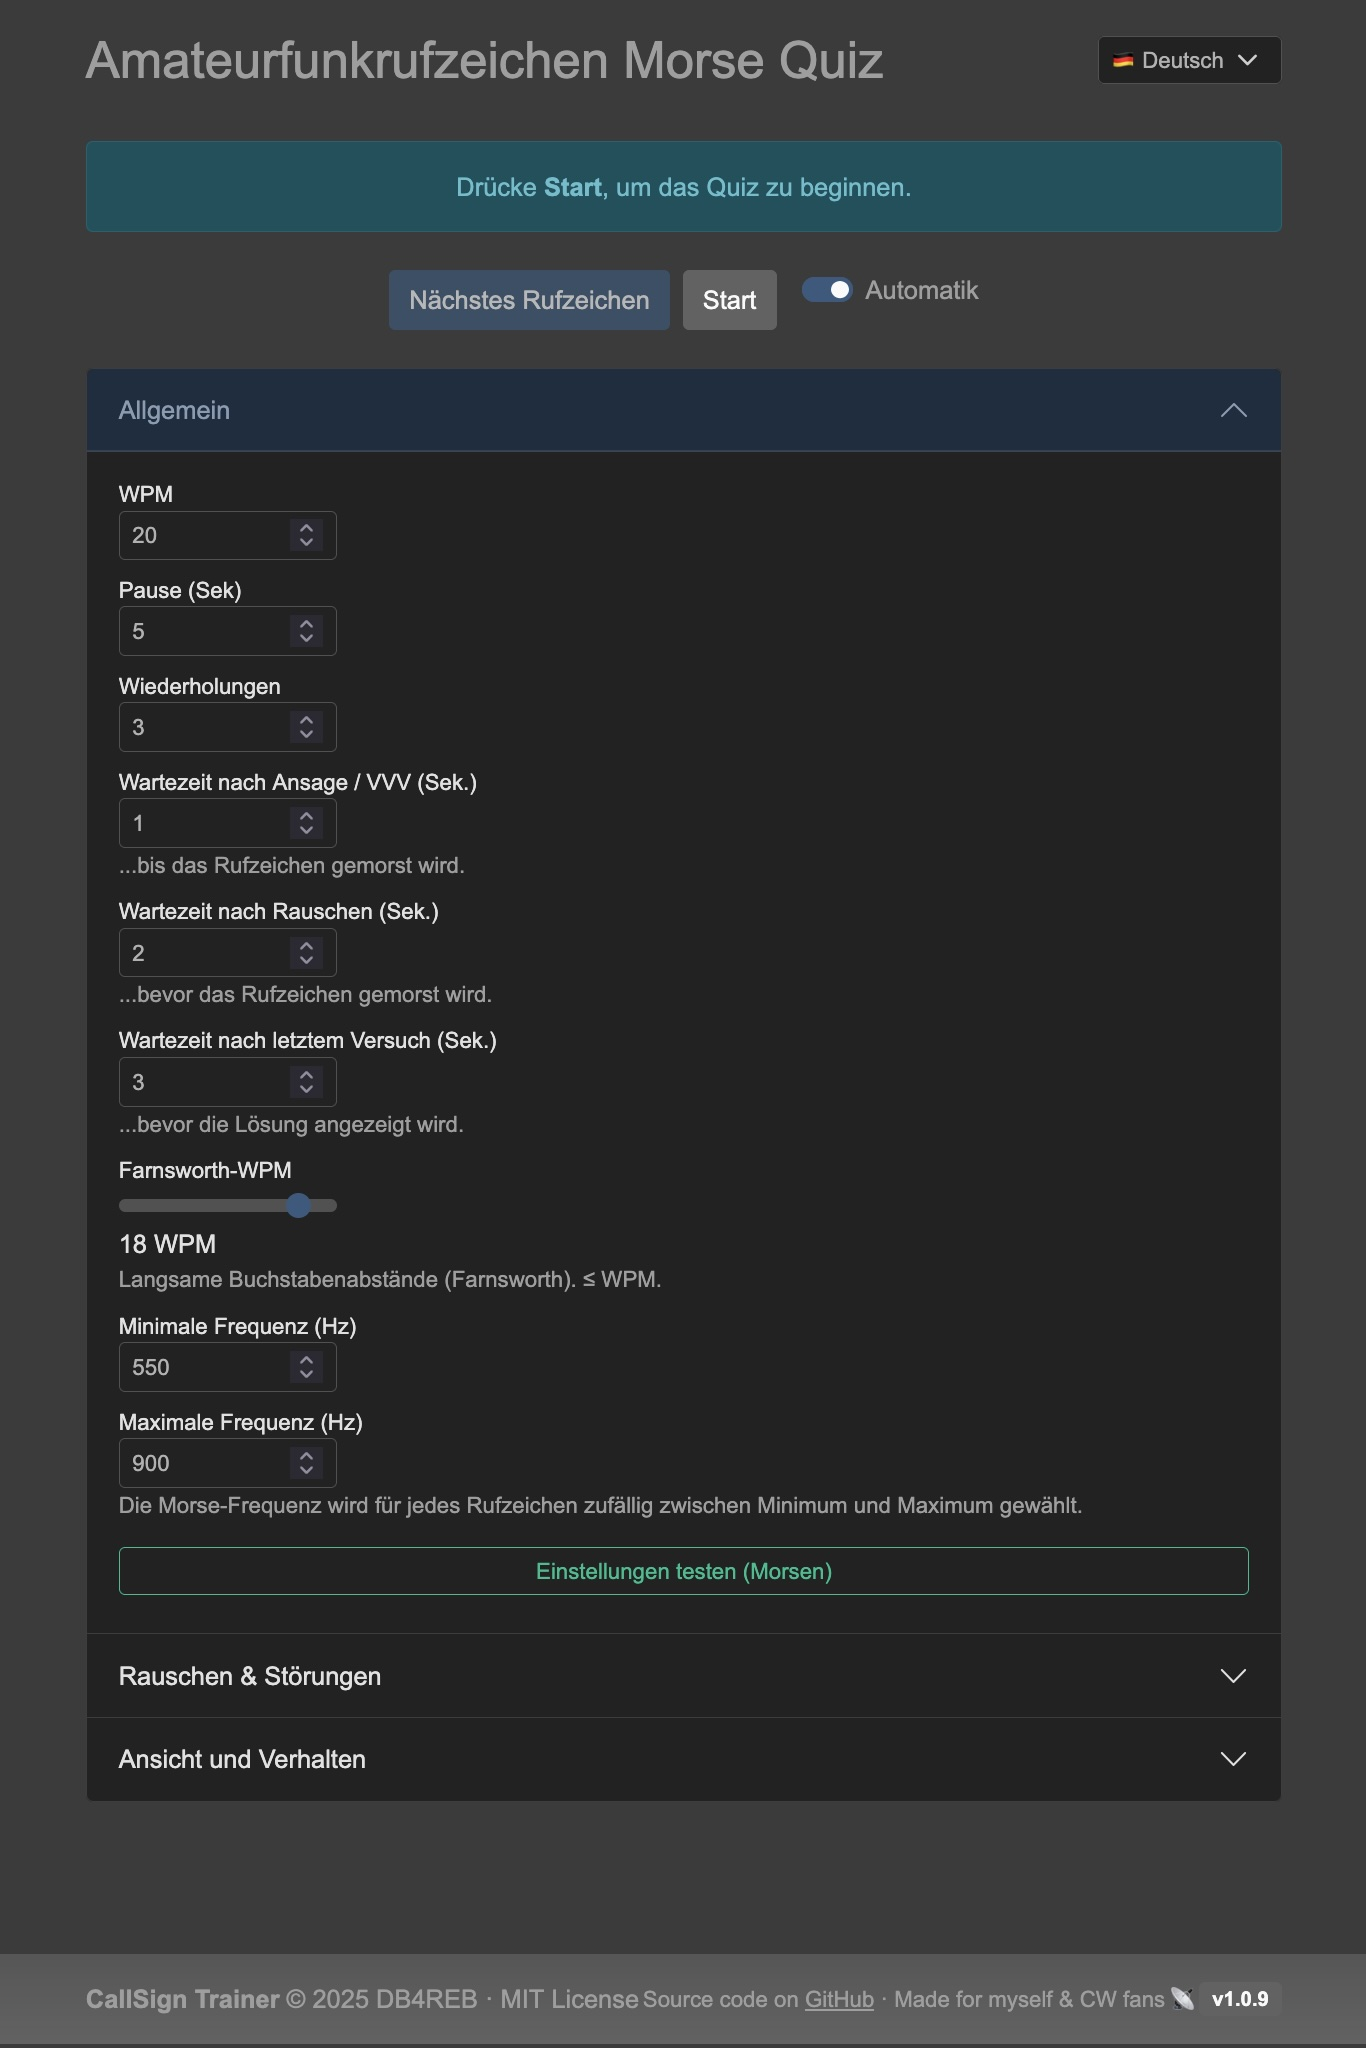
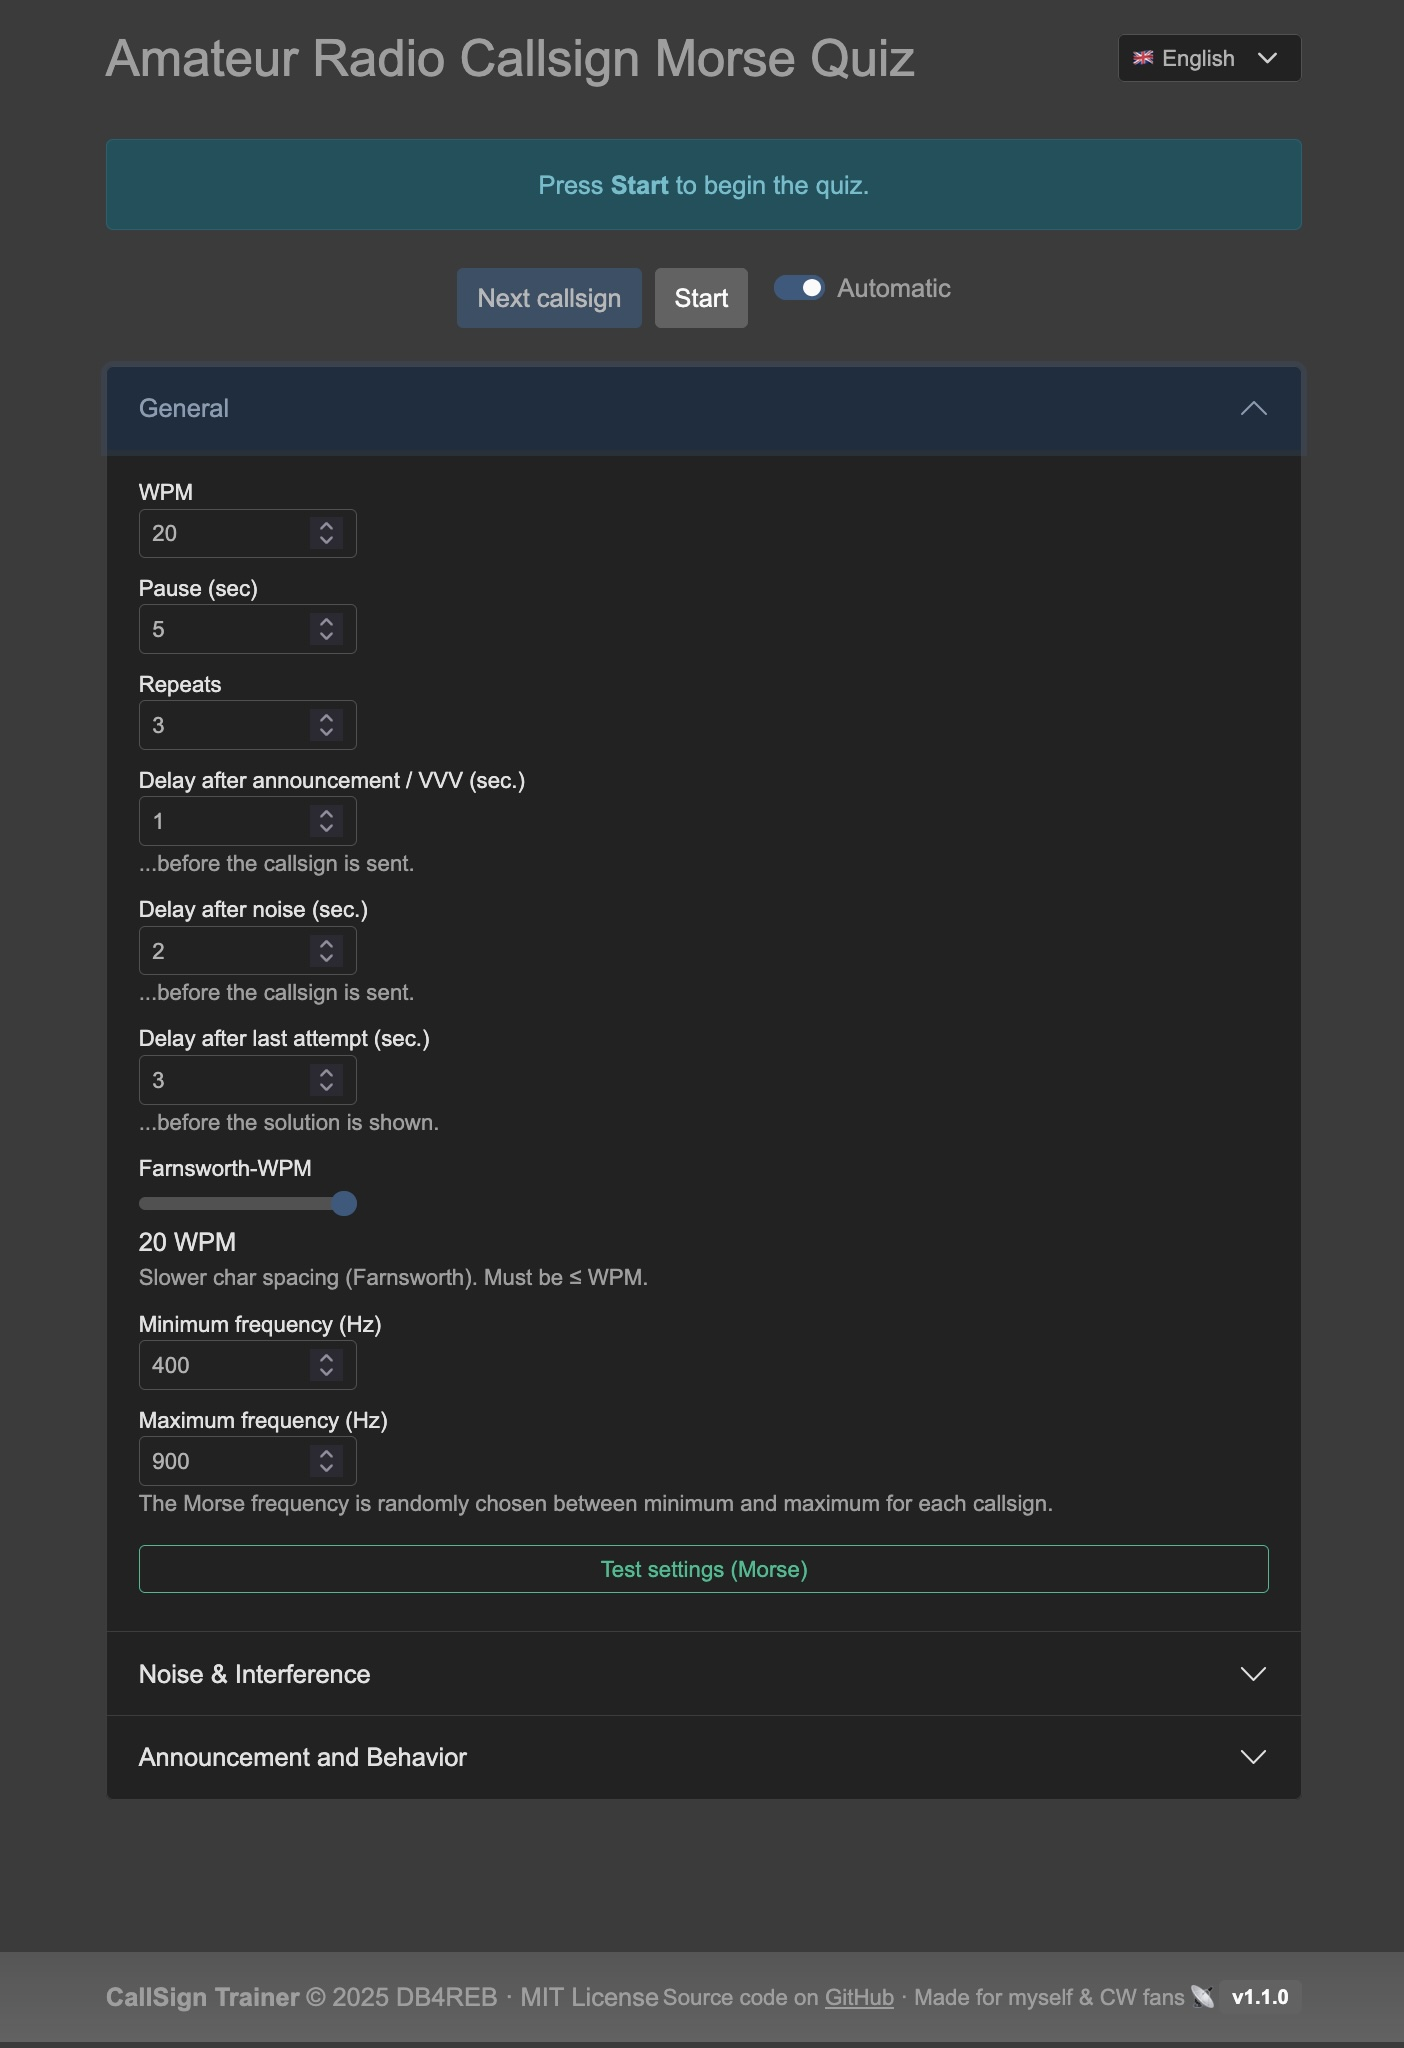
Fixed some issues regarding speed in playing morse code

diff --git a/js/ui.js b/js/ui.js
@@ -11,7 +11,7 @@ import { t, setLanguage, lang, availableLanguages } from './i18n.js';
 import { quizNext, getQuizState, setQuizState, setCallsignList } from './quiz.js';
 import { unlockAudioContext, playMorse, textToMorse } from './morse.js';
 import { pickPreferredVoice } from './voices.js';
-import { settings, saveSettings, DEFAULTS } from './settings.js';
+import { settings, saveSettings, setCurrentCallsignFrequency, DEFAULTS } from './settings.js';
 import { requestWakeLock, releaseWakeLock } from './wakeLock.js';
 
 // Theme mapping for Bootstrap themes
@@ -503,7 +503,7 @@ export function initUI() {
         minFreqInput.addEventListener('change', (e) => {
             let min = Math.max(300, Math.min(1000, Number(e.target.value)));
             minFreqInput.value = min;
-            if (min >= settings.maxFrequency) {
+            if (min > settings.maxFrequency) {
                 validateFrequencyInputs();
                 return;
             }
@@ -515,7 +515,7 @@ export function initUI() {
         maxFreqInput.addEventListener('change', (e) => {
             let max = Math.max(300, Math.min(1000, Number(e.target.value)));
             maxFreqInput.value = max;
-            if (max <= settings.minFrequency) {
+            if (max < settings.minFrequency) {
                 validateFrequencyInputs();
                 return;
             }
@@ -550,6 +550,7 @@ export function initUI() {
             const morse = textToMorse(testCall);
             const oldQuizValue = quizContainer.innerHTML;
             quizContainer.innerHTML = `<div class="alert alert-info text-center py-3">${t('test_morse_pre_hint')}</div>`;
+            setCurrentCallsignFrequency();
             setActionButtonsDisabled(true);
             playMorse(
                 morse,

diff --git a/js/morse.js b/js/morse.js
@@ -236,7 +236,9 @@ function playCallsignMorse(ctx, morse, unit, farnsworthUnit, qsbLevel, onComplet
 
     if (isVVV) {
         frequency = 700;
-    } 
+    }
+
+    //console.log(`Playing Morse: ${morse} at frequency ${frequency}Hz with unit ${unit}ms and farnsworth unit ${farnsworthUnit}ms`);
 
     // Play a single Morse tone
     function playTone(duration) {
@@ -248,7 +250,10 @@ function playCallsignMorse(ctx, morse, unit, farnsworthUnit, qsbLevel, onComplet
 
         let minQsb = 1 - (qsbLevel / 100);
         let qsb = qsbLevel > 0 ? (minQsb + Math.random() * (1 - minQsb)) : 1.0;
-        gain.gain.value = qsb;
+        gain.gain.setValueAtTime(0, time); // Start silent
+        gain.gain.linearRampToValueAtTime(qsb, time + 0.005); // Fade-in in 5ms
+        gain.gain.setValueAtTime(qsb, time + duration / 1000 - 0.005); // Hold level
+        gain.gain.linearRampToValueAtTime(0, time + duration / 1000); // Fade-out in 5ms
 
         osc.connect(gain).connect(ctx.destination);
         osc.start(time);

diff --git a/js/quiz.js b/js/quiz.js
@@ -104,10 +104,8 @@ export function quizNext(quizContainer, result, updateUI) {
     }
     const call = rufzeichenListe[currentIndex];
     
-    // Set the current callsign frequency
-    setCurrentCallsignFrequency(
-        Math.floor(Math.random() * (settings.maxFrequency - settings.minFrequency + 1)) + settings.minFrequency
-    );
+    // Set the current callsign frequency to a new random value
+    setCurrentCallsignFrequency();
 
     if (!settings.autoMode) {
         requestWakeLock(); // Wake Lock auch im manuellen Modus aktivieren

diff --git a/js/settings.js b/js/settings.js
@@ -33,10 +33,11 @@ let _currentCallsignFrequency = 700;
 
 /**
  * Sets the current frequency for the callsign in the current round.
- * @param {number} freq - The frequency to use for the current callsign.
  */
-export function setCurrentCallsignFrequency(freq) {
-    _currentCallsignFrequency = freq;
+export function setCurrentCallsignFrequency() {
+    const min = settings.minFrequency || 500;
+    const max = settings.maxFrequency || 900;
+    _currentCallsignFrequency = Math.floor(Math.random() * (max - min + 1)) + min;
 }
 
 /**

diff --git a/js/version.js b/js/version.js
@@ -6,7 +6,7 @@
  * Author: DB4REB
  * License: MIT
  */
-export const VERSION = "v1.0.9";
+export const VERSION = "v1.1.0";
 
 /**
  * Sets or updates the version badge in the footer of the page.
